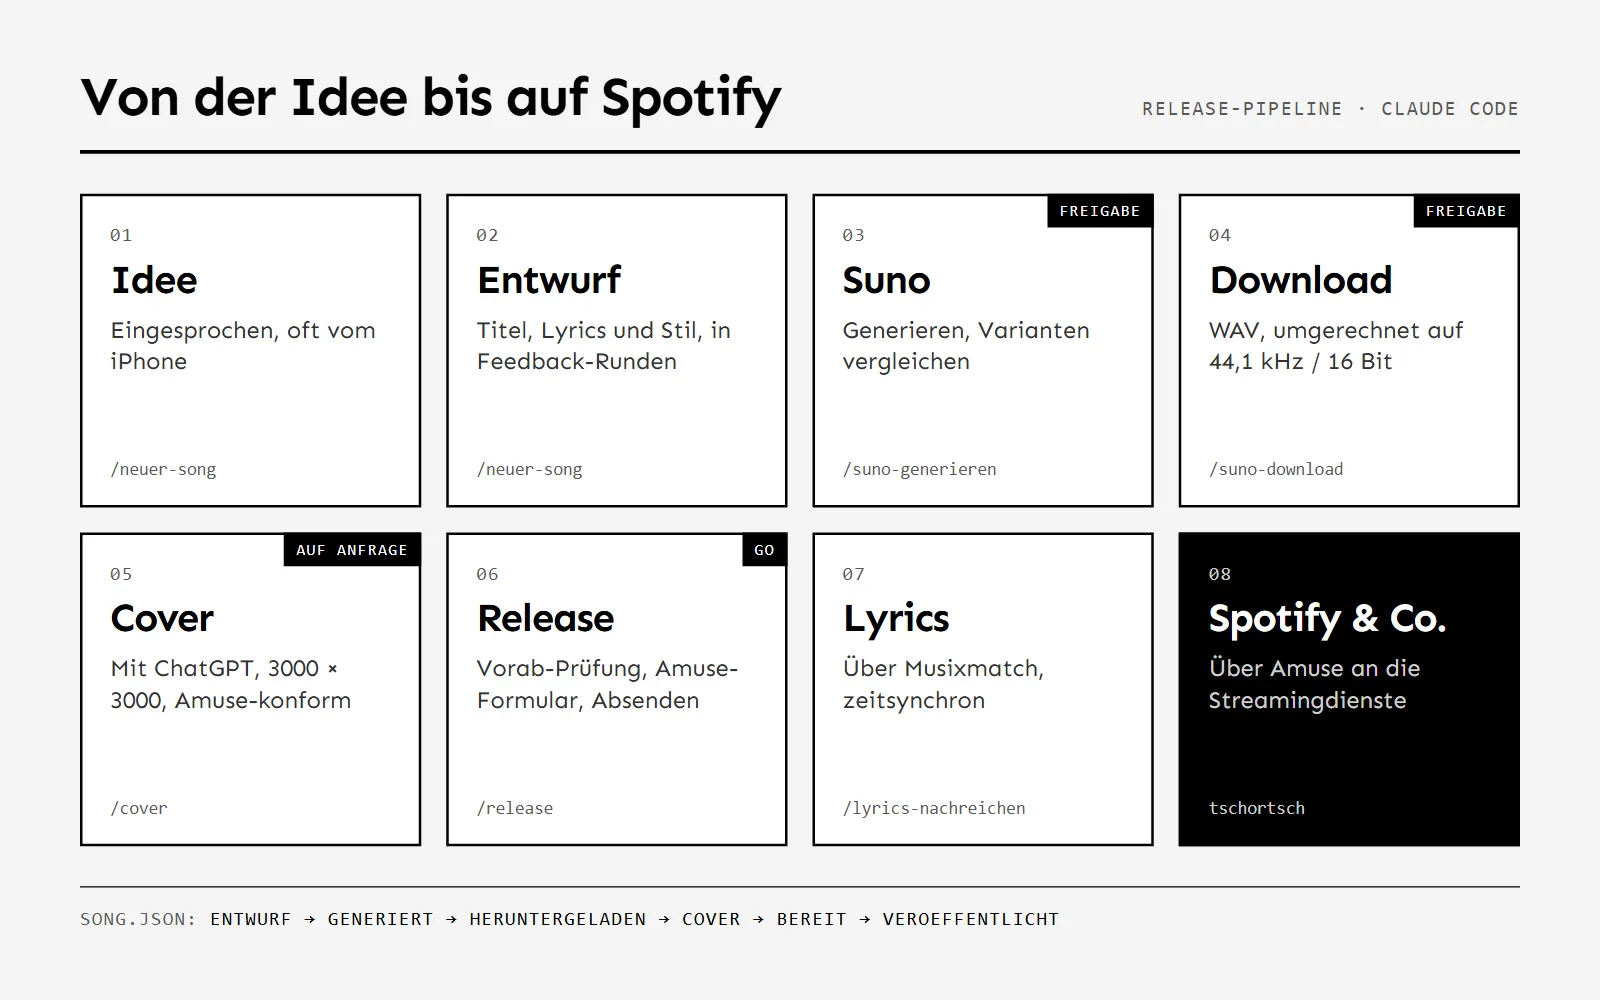
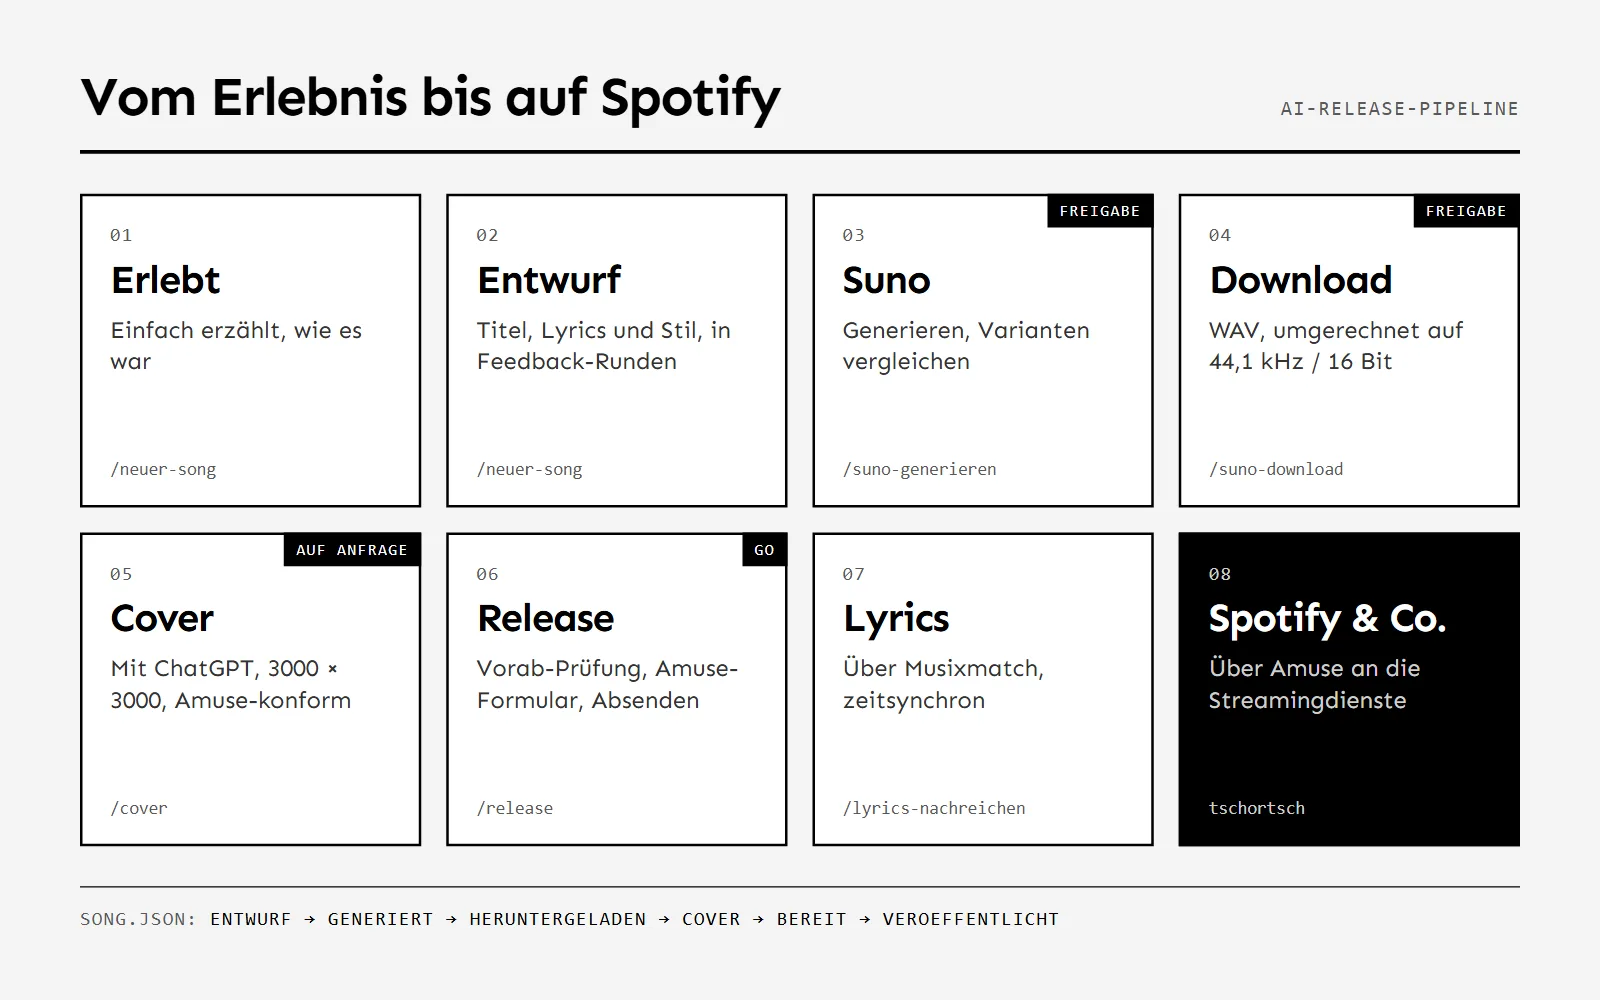
Texte: Shisha als Service-Review, Pipeline als Erinnerung zum Hören, Nächstes Projekt als Balken
Shisha as a Service mit neuer Aussage, Wozu und Wert statt Womit gebaut und Stand.
Release-Pipeline erzählt vom Erlebnis statt vom Werkzeug, Grafik angepasst.
Nächstes Projekt steht auf allen Projektseiten als schwarzer Balken.

Changed region(s): [[0.0938, 0.062, 0.4688, 0.124], [0.0625, 0.248, 0.25, 0.372], [0.7188, 0.093, 0.9375, 0.124]]

diff --git a/projekte/release-pipeline/index.html b/projekte/release-pipeline/index.html
@@ -4,7 +4,7 @@
 <meta charset="utf-8">
 <meta name="viewport" content="width=device-width, initial-scale=1">
 <title>Release-Pipeline · Nikola Djordjevic</title>
-<meta name="description" content="Claude Code bringt die Songs auf Spotify, aber nur nach Freigabe. Ein Claude-Code-Projekt mit neun Skills und 21 Skripten. Es bedient Suno, ChatGPT, Amuse und Musixmatch im Browser. Generiert, heruntergeladen und abgeschickt wird nur nach ausdrücklicher Freigabe.">
+<meta name="description" content="Aus gemeinsamen Erlebnissen werden Erinnerungen, die man hören kann. Ein Fotoalbum schlägt man selten auf. Ein Song läuft einfach mit: im Auto, beim Kochen und in der Playlist der Freunde, die dabei waren.">
 <meta name="author" content="Nikola Djordjevic">
 <meta name="theme-color" content="#ffffff">
 <meta name="color-scheme" content="light">
@@ -13,12 +13,12 @@
 <meta property="og:locale" content="de_DE">
 <meta property="og:site_name" content="Nikola Djordjevic">
 <meta property="og:title" content="Release-Pipeline · Nikola Djordjevic">
-<meta property="og:description" content="Claude Code bringt die Songs auf Spotify, aber nur nach Freigabe. Ein Claude-Code-Projekt mit neun Skills und 21 Skripten. Es bedient Suno, ChatGPT, Amuse und Musixmatch im Browser. Generiert, heruntergeladen und abgeschickt wird nur nach ausdrücklicher Freigabe.">
+<meta property="og:description" content="Aus gemeinsamen Erlebnissen werden Erinnerungen, die man hören kann. Ein Fotoalbum schlägt man selten auf. Ein Song läuft einfach mit: im Auto, beim Kochen und in der Playlist der Freunde, die dabei waren.">
 <meta property="og:url" content="https://tschortsch3711.github.io/portfolio/projekte/release-pipeline/">
 <meta property="og:image" content="https://tschortsch3711.github.io/portfolio/assets/bilder/og/release-pipeline.jpg">
 <meta property="og:image:width" content="1200">
 <meta property="og:image:height" content="630">
-<meta property="og:image:alt" content="Ablauf der Pipeline in acht Feldern: Idee, Entwurf, Suno, Download, Cover, Release, Lyrics und Spotify. Suno und Download tragen das Etikett Freigabe, Cover das Etikett Auf Anfrage, Release das Etikett Go.">
+<meta property="og:image:alt" content="Ablauf der Pipeline in acht Feldern: Erlebt, Entwurf, Suno, Download, Cover, Release, Lyrics und Spotify. Suno und Download tragen das Etikett Freigabe, Cover das Etikett Auf Anfrage, Release das Etikett Go.">
 <meta name="twitter:card" content="summary_large_image">
 <link rel="icon" href="../../favicon.svg" type="image/svg+xml">
 <link rel="preload" href="../../fonts/Sen/Sen-Bold.woff2" as="font" type="font/woff2" crossorigin>
@@ -40,11 +40,11 @@
   <div class="rahmen">
     <section class="held" aria-labelledby="aussage">
       <p class="etikett"><span>Kunst &amp; Musik</span><span>08 / 11</span><span>Release-Pipeline</span></p>
-      <h1 id="aussage">Claude Code bringt die Songs auf Spotify, aber nur nach Freigabe.</h1>
-      <p class="held-unter">Ein Claude-Code-Projekt mit neun Skills und 21 Skripten. Es bedient Suno, ChatGPT, Amuse und Musixmatch im Browser. Generiert, heruntergeladen und abgeschickt wird nur nach ausdrücklicher Freigabe.</p>
+      <h1 id="aussage">Aus gemeinsamen Erlebnissen werden Erinnerungen, die man hören kann.</h1>
+      <p class="held-unter">Ein Fotoalbum schlägt man selten auf. Ein Song läuft einfach mit: im Auto, beim Kochen und in der Playlist der Freunde, die dabei waren.</p>
       <figure>
         <div class="bild">
-          <img src="../../assets/bilder/release-pipeline-1600.webp" srcset="../../assets/bilder/release-pipeline-800.webp 800w, ../../assets/bilder/release-pipeline-1600.webp 1600w" sizes="(max-width: 64rem) 100vw, 60rem" width="1600" height="1000" alt="Ablauf der Pipeline in acht Feldern: Idee, Entwurf, Suno, Download, Cover, Release, Lyrics und Spotify. Suno und Download tragen das Etikett Freigabe, Cover das Etikett Auf Anfrage, Release das Etikett Go." fetchpriority="high">
+          <img src="../../assets/bilder/release-pipeline-1600.webp" srcset="../../assets/bilder/release-pipeline-800.webp 800w, ../../assets/bilder/release-pipeline-1600.webp 1600w" sizes="(max-width: 64rem) 100vw, 60rem" width="1600" height="1000" alt="Ablauf der Pipeline in acht Feldern: Erlebt, Entwurf, Suno, Download, Cover, Release, Lyrics und Spotify. Suno und Download tragen das Etikett Freigabe, Cover das Etikett Auf Anfrage, Release das Etikett Go." fetchpriority="high">
         </div>
         <figcaption class="bild-unter etikett">Ablauf der Pipeline, eigene Grafik</figcaption>
       </figure>
@@ -89,14 +89,12 @@
             <span class="zeile-pfeil" aria-hidden="true">↗</span>
           </a>
         </li>
-        <li>
-          <a class="weiter-link" href="../../projekte/br-or-not-2-br/">
-            <span class="weiter-was">Nächstes Projekt</span>
-            <span class="weiter-wo">BR or not 2 BR?</span>
-            <span class="zeile-pfeil" aria-hidden="true">→</span>
-          </a>
-        </li>
       </ul>
+      <a class="naechstes" href="../../projekte/br-or-not-2-br/">
+        <span class="etikett">Nächstes Projekt</span>
+        <span class="naechstes-name">BR or not 2 BR?</span>
+        <span class="naechstes-pfeil" aria-hidden="true">→</span>
+      </a>
     </nav>
   </div>
 </main>

diff --git a/projekte/shisha-as-a-service/index.html b/projekte/shisha-as-a-service/index.html
@@ -4,7 +4,7 @@
 <meta charset="utf-8">
 <meta name="viewport" content="width=device-width, initial-scale=1">
 <title>Shisha as a Service · Nikola Djordjevic</title>
-<meta name="description" content="Vier Shisha-Bars für einen Donnerstag, sortiert nach fairer Fahrzeit. Eine kleine Seite für ein Treffen am 19.11.2026. Wer sie bekommt, sucht sich eine Bar aus und schickt die Nummer zurück.">
+<meta name="description" content="Heute sind wir der Kunde. Ein ganz normaler Barbesuch, nur mit dem Blick, den wir sonst auf unsere eigenen Services richten.">
 <meta name="author" content="Nikola Djordjevic">
 <meta name="theme-color" content="#ffffff">
 <meta name="color-scheme" content="light">
@@ -13,7 +13,7 @@
 <meta property="og:locale" content="de_DE">
 <meta property="og:site_name" content="Nikola Djordjevic">
 <meta property="og:title" content="Shisha as a Service · Nikola Djordjevic">
-<meta property="og:description" content="Vier Shisha-Bars für einen Donnerstag, sortiert nach fairer Fahrzeit. Eine kleine Seite für ein Treffen am 19.11.2026. Wer sie bekommt, sucht sich eine Bar aus und schickt die Nummer zurück.">
+<meta property="og:description" content="Heute sind wir der Kunde. Ein ganz normaler Barbesuch, nur mit dem Blick, den wir sonst auf unsere eigenen Services richten.">
 <meta property="og:url" content="https://tschortsch3711.github.io/portfolio/projekte/shisha-as-a-service/">
 <meta property="og:image" content="https://tschortsch3711.github.io/portfolio/assets/bilder/og/shisha-as-a-service.jpg">
 <meta property="og:image:width" content="1200">
@@ -40,8 +40,8 @@
   <div class="rahmen">
     <section class="held" aria-labelledby="aussage">
       <p class="etikett"><span>Open Source</span><span>04 / 11</span><span>Shisha as a Service</span></p>
-      <h1 id="aussage">Vier Shisha-Bars für einen Donnerstag, sortiert nach fairer Fahrzeit.</h1>
-      <p class="held-unter">Eine kleine Seite für ein Treffen am 19.11.2026. Wer sie bekommt, sucht sich eine Bar aus und schickt die Nummer zurück.</p>
+      <h1 id="aussage">Heute sind wir der Kunde.</h1>
+      <p class="held-unter">Ein ganz normaler Barbesuch, nur mit dem Blick, den wir sonst auf unsere eigenen Services richten.</p>
       <figure>
         <div class="bild">
           <img src="../../assets/bilder/shisha-as-a-service-1600.webp" srcset="../../assets/bilder/shisha-as-a-service-800.webp 800w, ../../assets/bilder/shisha-as-a-service-1600.webp 1600w" sizes="(max-width: 64rem) 100vw, 60rem" width="1600" height="1000" alt="Einstieg von Shisha as a Service mit der Überschrift „Ein Ort, den noch keiner von uns kennt.“, vier Fotos von Bars und einem runden Siegel" fetchpriority="high">
@@ -52,9 +52,9 @@
 
     <dl class="band" aria-label="Fakten">
       <div><dt class="etikett">Was</dt><dd>Vergleichsseite für eine Verabredung</dd></div>
-      <div><dt class="etikett">Für wen</dt><dd>Zwei Leute, die sich zwischen Freising und Regensburg treffen</dd></div>
-      <div><dt class="etikett">Womit gebaut</dt><dd>Eine einzige HTML-Datei, kein externes JavaScript, kein Tracking</dd></div>
-      <div><dt class="etikett">Stand</dt><dd>Gebaut am 18.11.2026</dd></div>
+      <div><dt class="etikett">Für wen</dt><dd>Alle, die Qualität erleben statt messen wollen</dd></div>
+      <div><dt class="etikett">Wozu</dt><dd>Um Service einen Abend lang so zu erleben, wie ihn der Kunde erlebt</dd></div>
+      <div><dt class="etikett">Wert</dt><dd>Der Blick des Kunden, den im IT-Betrieb keine Kennzahl liefert</dd></div>
     </dl>
 
     <section class="text" aria-label="Mehr über Shisha as a Service">
@@ -67,8 +67,8 @@
         <div><p>Je nach Startort vier von sechs Bars zwischen Abensberg, Landshut, Moosburg, Erding und Neufahrn. Jede Karte zeigt Sterne, Fahrzeiten und Stimmen aus den Bewertungen, auch die kritischen.</p></div>
       </div>
       <div class="text-block">
-        <h2>Wie es entstand</h2>
-        <div><p>Vorher wurden drei Layouts verglichen: Vergleichsliste, Strecke und eine Bar pro Bildschirm. Die Strecke hat gewonnen. Ganz unten wartet ein kleiner Service-Check zum Augenzwinkern.</p></div>
+        <h2>Die Kriterien</h2>
+        <div><p>Time to first Kohle, proaktives Monitoring, Change Request und Kundenbewertung: Daran messen wir den Service vor Ort.</p></div>
       </div>
     </section>
 
@@ -89,14 +89,12 @@
             <span class="zeile-pfeil" aria-hidden="true">↗</span>
           </a>
         </li>
-        <li>
-          <a class="weiter-link" href="../../projekte/von-ka-zu-ki/">
-            <span class="weiter-was">Nächstes Projekt</span>
-            <span class="weiter-wo">Von K.A. zu K.I.</span>
-            <span class="zeile-pfeil" aria-hidden="true">→</span>
-          </a>
-        </li>
       </ul>
+      <a class="naechstes" href="../../projekte/von-ka-zu-ki/">
+        <span class="etikett">Nächstes Projekt</span>
+        <span class="naechstes-name">Von K.A. zu K.I.</span>
+        <span class="naechstes-pfeil" aria-hidden="true">→</span>
+      </a>
     </nav>
   </div>
 </main>

diff --git a/projekte/this-is-tschortsch/index.html b/projekte/this-is-tschortsch/index.html
@@ -60,7 +60,7 @@
     <section class="text" aria-label="Mehr über This is tschortsch">
       <div class="text-block">
         <h2>Wie ein Song entsteht</h2>
-        <div><p>Am Anfang steht eine eingesprochene Idee. Daraus werden Titel, Text und eine Stilbeschreibung für Suno. Suno erzeugt die Musik, das Cover entsteht mit ChatGPT, veröffentlicht wird über Amuse.</p></div>
+        <div><p>Am Anfang steht ein Erlebnis, einfach erzählt. Daraus werden Titel, Text und eine Stilbeschreibung für Suno. Suno erzeugt die Musik, das Cover entsteht mit ChatGPT, veröffentlicht wird über Amuse.</p></div>
       </div>
       <div class="text-block">
         <h2>Was erschienen ist</h2>
@@ -68,7 +68,7 @@
       </div>
       <div class="text-block">
         <h2>Halb automatisch</h2>
-        <div><p>Die Schritte von Suno bis Amuse laufen über eine eigene Pipeline mit Claude Code, das die Weboberflächen im Browser bedient. Generiert, heruntergeladen und abgeschickt wird erst nach Freigabe.</p></div>
+        <div><p>Den Weg von Suno bis Amuse übernimmt eine eigene AI-Release-Pipeline. Veröffentlicht wird ein Song erst, wenn der Feinschliff sitzt.</p></div>
       </div>
     </section>
 
@@ -89,14 +89,12 @@
             <span class="zeile-pfeil" aria-hidden="true">↗</span>
           </a>
         </li>
-        <li>
-          <a class="weiter-link" href="../../projekte/release-pipeline/">
-            <span class="weiter-was">Nächstes Projekt</span>
-            <span class="weiter-wo">Release-Pipeline</span>
-            <span class="zeile-pfeil" aria-hidden="true">→</span>
-          </a>
-        </li>
       </ul>
+      <a class="naechstes" href="../../projekte/release-pipeline/">
+        <span class="etikett">Nächstes Projekt</span>
+        <span class="naechstes-name">Release-Pipeline</span>
+        <span class="naechstes-pfeil" aria-hidden="true">→</span>
+      </a>
     </nav>
   </div>
 </main>

diff --git a/assets/css/site.css b/assets/css/site.css
@@ -255,7 +255,7 @@ ul, ol { padding: 0; list-style: none; }
 }
 .band > div:first-child { border-left: 0; padding-left: 0; }
 .band dt { margin-bottom: var(--s-2); }
-.band dd { font-weight: 700; line-height: 1.35; }
+.band dd { font-weight: 700; line-height: 1.35; text-wrap: balance; }
 
 @media (max-width: 46rem) {
   .band { grid-template-columns: 1fr 1fr; }
@@ -303,11 +303,30 @@ ul, ol { padding: 0; list-style: none; }
 }
 .weiter-link:hover .weiter-wo, .weiter-link:focus-visible .weiter-wo { color: var(--c-papier); }
 
+/* Nächstes Projekt: schwarzer Balken, abgesetzt von den Links */
+.naechstes {
+  display: grid;
+  grid-template-columns: 1fr auto;
+  gap: var(--s-2) var(--s-5);
+  align-items: center;
+  margin-top: var(--s-7);
+  padding: var(--s-6);
+  background: var(--c-tinte);
+  color: var(--c-papier);
+  text-decoration: none;
+}
+.naechstes .etikett { grid-column: 1 / 3; color: var(--c-haar); }
+.naechstes-name { font-size: var(--t-titel); font-weight: 700; letter-spacing: var(--sp-eng); line-height: var(--z-eng); }
+.naechstes-pfeil { justify-self: end; font-size: var(--t-titel); line-height: 1; transition: transform .12s ease; }
+.naechstes:hover .naechstes-pfeil, .naechstes:focus-visible .naechstes-pfeil { transform: translateX(var(--s-2)); }
+.naechstes:focus-visible { outline-offset: 3px; }
+
 @media (max-width: 46rem) {
   .weiter-link { grid-template-columns: 1fr 1.5rem; padding: var(--s-4) 0; }
   .weiter-was { font-size: var(--t-gross); grid-column: 1; grid-row: 1; }
   .weiter-link .zeile-pfeil { grid-column: 2; grid-row: 1; font-size: var(--t-gross); }
   .weiter-wo { grid-column: 1 / 3; grid-row: 2; }
+  .naechstes { padding: var(--s-5); margin-top: var(--s-6); }
 }
 
 @media (prefers-reduced-motion: reduce) {

diff --git a/projekte/ganachekatze/index.html b/projekte/ganachekatze/index.html
@@ -64,11 +64,11 @@
       </div>
       <div class="text-block">
         <h2>Das Buch</h2>
-        <div><p>„Einfach backen mit Wow-Effekt“ hat 160 Seiten und über 50 Backideen, von Torten bis Cookies, jeweils mit Zutaten, Zeit und Mengen.</p></div>
+        <div><p>„Einfach backen mit Wow-Effekt“ hat 160 Seiten und über 50 Backideen,<br>von Torten bis Cookies, jeweils mit Zutaten, Zeit und Mengen.</p></div>
       </div>
       <div class="text-block">
         <h2>Der Shop</h2>
-        <div><p>Im Shop gibt es E-Books wie „Cookie Therapy: Chunky &amp; Creamy“ und „Auf die Plätzchen, fertig, los!“.</p></div>
+        <div><p>Ein kleiner Shop für alle, die weiterbacken wollen:<br>Zwei E-Books und das eigene Backbuch.</p></div>
       </div>
     </section>
 
@@ -82,14 +82,12 @@
             <span class="zeile-pfeil" aria-hidden="true">↗</span>
           </a>
         </li>
-        <li>
-          <a class="weiter-link" href="../../projekte/shisha-as-a-service/">
-            <span class="weiter-was">Nächstes Projekt</span>
-            <span class="weiter-wo">Shisha as a Service</span>
-            <span class="zeile-pfeil" aria-hidden="true">→</span>
-          </a>
-        </li>
       </ul>
+      <a class="naechstes" href="../../projekte/shisha-as-a-service/">
+        <span class="etikett">Nächstes Projekt</span>
+        <span class="naechstes-name">Shisha as a Service</span>
+        <span class="naechstes-pfeil" aria-hidden="true">→</span>
+      </a>
     </nav>
   </div>
 </main>

diff --git a/werkzeug/grafiken/release-pipeline.html b/werkzeug/grafiken/release-pipeline.html
@@ -29,11 +29,11 @@ body { font-family: Sen, Arial, sans-serif; padding: 56px 64px; display: flex; f
 </head>
 <body>
   <div class="kopf">
-    <h1>Von der Idee bis auf Spotify</h1>
-    <span class="mono">Release-Pipeline · Claude Code</span>
+    <h1>Vom Erlebnis bis auf Spotify</h1>
+    <span class="mono">AI-Release-Pipeline</span>
   </div>
   <div class="raster">
-    <div class="feld"><span class="nr mono">01</span><h2>Idee</h2><p>Eingesprochen, oft vom iPhone</p><span class="skill mono">/neuer-song</span></div>
+    <div class="feld"><span class="nr mono">01</span><h2>Erlebt</h2><p>Einfach erzählt, wie es war</p><span class="skill mono">/neuer-song</span></div>
     <div class="feld"><span class="nr mono">02</span><h2>Entwurf</h2><p>Titel, Lyrics und Stil, in Feedback-Runden</p><span class="skill mono">/neuer-song</span></div>
     <div class="feld"><span class="frei mono">Freigabe</span><span class="nr mono">03</span><h2>Suno</h2><p>Generieren, Varianten vergleichen</p><span class="skill mono">/suno-generieren</span></div>
     <div class="feld"><span class="frei mono">Freigabe</span><span class="nr mono">04</span><h2>Download</h2><p>WAV, umgerechnet auf 44,1 kHz / 16 Bit</p><span class="skill mono">/suno-download</span></div>

diff --git a/projekte/fleischbibel/index.html b/projekte/fleischbibel/index.html
@@ -89,14 +89,12 @@
             <span class="zeile-pfeil" aria-hidden="true">↗</span>
           </a>
         </li>
-        <li>
-          <a class="weiter-link" href="../../projekte/this-is-tschortsch/">
-            <span class="weiter-was">Nächstes Projekt</span>
-            <span class="weiter-wo">This is tschortsch</span>
-            <span class="zeile-pfeil" aria-hidden="true">→</span>
-          </a>
-        </li>
       </ul>
+      <a class="naechstes" href="../../projekte/this-is-tschortsch/">
+        <span class="etikett">Nächstes Projekt</span>
+        <span class="naechstes-name">This is tschortsch</span>
+        <span class="naechstes-pfeil" aria-hidden="true">→</span>
+      </a>
     </nav>
   </div>
 </main>

diff --git a/projekte/br-or-not-2-br/index.html b/projekte/br-or-not-2-br/index.html
@@ -89,14 +89,12 @@
             <span class="zeile-pfeil" aria-hidden="true">↗</span>
           </a>
         </li>
-        <li>
-          <a class="weiter-link" href="../../projekte/br-selbstcheck/">
-            <span class="weiter-was">Nächstes Projekt</span>
-            <span class="weiter-wo">BR-Selbstcheck</span>
-            <span class="zeile-pfeil" aria-hidden="true">→</span>
-          </a>
-        </li>
       </ul>
+      <a class="naechstes" href="../../projekte/br-selbstcheck/">
+        <span class="etikett">Nächstes Projekt</span>
+        <span class="naechstes-name">BR-Selbstcheck</span>
+        <span class="naechstes-pfeil" aria-hidden="true">→</span>
+      </a>
     </nav>
   </div>
 </main>

diff --git a/projekte/br-selbstcheck/index.html b/projekte/br-selbstcheck/index.html
@@ -85,14 +85,12 @@
             <span class="zeile-pfeil" aria-hidden="true">↗</span>
           </a>
         </li>
-        <li>
-          <a class="weiter-link" href="../../projekte/br-simulator/">
-            <span class="weiter-was">Nächstes Projekt</span>
-            <span class="weiter-wo">BR-Simulator</span>
-            <span class="zeile-pfeil" aria-hidden="true">→</span>
-          </a>
-        </li>
       </ul>
+      <a class="naechstes" href="../../projekte/br-simulator/">
+        <span class="etikett">Nächstes Projekt</span>
+        <span class="naechstes-name">BR-Simulator</span>
+        <span class="naechstes-pfeil" aria-hidden="true">→</span>
+      </a>
     </nav>
   </div>
 </main>

diff --git a/projekte/lagerhimmel/index.html b/projekte/lagerhimmel/index.html
@@ -82,14 +82,12 @@
             <span class="zeile-pfeil" aria-hidden="true">↗</span>
           </a>
         </li>
-        <li>
-          <a class="weiter-link" href="../../projekte/ganachekatze/">
-            <span class="weiter-was">Nächstes Projekt</span>
-            <span class="weiter-wo">Ganachekatze</span>
-            <span class="zeile-pfeil" aria-hidden="true">→</span>
-          </a>
-        </li>
       </ul>
+      <a class="naechstes" href="../../projekte/ganachekatze/">
+        <span class="etikett">Nächstes Projekt</span>
+        <span class="naechstes-name">Ganachekatze</span>
+        <span class="naechstes-pfeil" aria-hidden="true">→</span>
+      </a>
     </nav>
   </div>
 </main>

diff --git a/projekte/von-ka-zu-ki/index.html b/projekte/von-ka-zu-ki/index.html
@@ -89,14 +89,12 @@
             <span class="zeile-pfeil" aria-hidden="true">↗</span>
           </a>
         </li>
-        <li>
-          <a class="weiter-link" href="../../projekte/fleischbibel/">
-            <span class="weiter-was">Nächstes Projekt</span>
-            <span class="weiter-wo">Fleischbibel</span>
-            <span class="zeile-pfeil" aria-hidden="true">→</span>
-          </a>
-        </li>
       </ul>
+      <a class="naechstes" href="../../projekte/fleischbibel/">
+        <span class="etikett">Nächstes Projekt</span>
+        <span class="naechstes-name">Fleischbibel</span>
+        <span class="naechstes-pfeil" aria-hidden="true">→</span>
+      </a>
     </nav>
   </div>
 </main>

diff --git a/projekte/3dmensional/index.html b/projekte/3dmensional/index.html
@@ -82,14 +82,12 @@
             <span class="zeile-pfeil" aria-hidden="true">↗</span>
           </a>
         </li>
-        <li>
-          <a class="weiter-link" href="../../projekte/lagerhimmel/">
-            <span class="weiter-was">Nächstes Projekt</span>
-            <span class="weiter-wo">Lagerhimmel</span>
-            <span class="zeile-pfeil" aria-hidden="true">→</span>
-          </a>
-        </li>
       </ul>
+      <a class="naechstes" href="../../projekte/lagerhimmel/">
+        <span class="etikett">Nächstes Projekt</span>
+        <span class="naechstes-name">Lagerhimmel</span>
+        <span class="naechstes-pfeil" aria-hidden="true">→</span>
+      </a>
     </nav>
   </div>
 </main>
